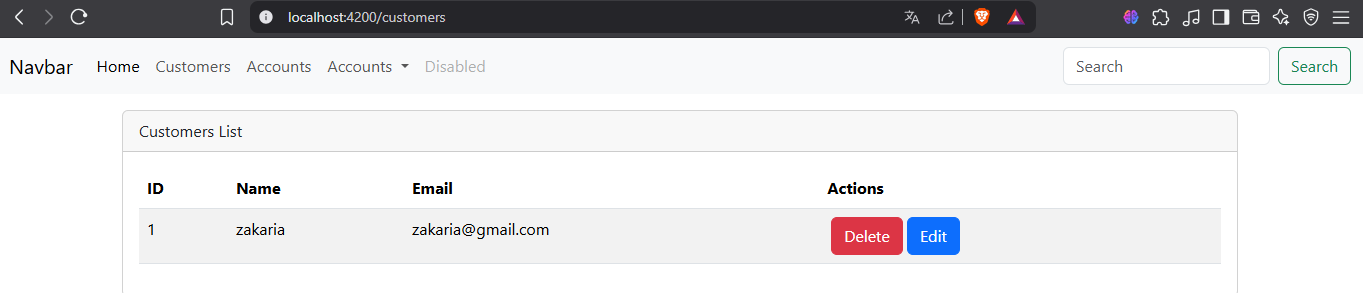
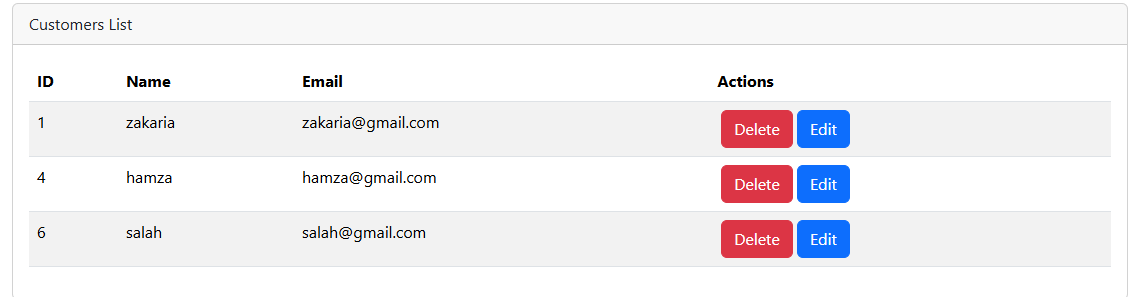
update delete customer

diff --git a/src/app/customers/customers.component.ts b/src/app/customers/customers.component.ts
@@ -1,8 +1,7 @@
-import { Component, OnInit,inject } from '@angular/core';
+import { Component, OnInit, inject } from '@angular/core';
 import { CommonModule } from '@angular/common';
 import { CustumerService, Customer } from '../services/custumer.service';
 import { RouterModule } from '@angular/router';
-
 
 @Component({
   selector: 'app-customers',
@@ -14,7 +13,8 @@ import { RouterModule } from '@angular/router';
 export class CustomersComponent implements OnInit {
   customers: Customer[] = [];
   errorMessage: string = '';
-  service=inject(CustumerService);
+  successMessage: string = '';  // Add this line
+  service = inject(CustumerService);
 
   constructor(private customerService: CustumerService) {}
 
@@ -36,12 +36,17 @@ export class CustomersComponent implements OnInit {
 
   deleteCustomer(id: number) {
     if (confirm('Are you sure you want to delete this customer?')) {
-      this.customerService.deleteCustomer(id).subscribe({
+      this.service.deleteCustomer(id).subscribe({
         next: () => {
-          this.loadCustomers();
+          this.customers = this.customers.filter(c => c.id !== id);
+          this.errorMessage = '';
+          this.successMessage = 'Customer deleted successfully';
+          setTimeout(() => this.successMessage = '', 3000); 
         },
         error: (err) => {
           this.errorMessage = 'Error deleting customer: ' + err.message;
+          this.successMessage = '';
+          console.error('Delete error:', err);
         }
       });
     }

diff --git a/src/app/customers/customers.component.html b/src/app/customers/customers.component.html
@@ -5,6 +5,9 @@
       <div *ngIf="errorMessage" class="alert alert-danger">
         {{errorMessage}}
       </div>
+      <div *ngIf="successMessage" class="alert alert-success">
+        {{successMessage}}
+      </div>
       
       <table class="table table-striped" *ngIf="customers.length > 0">
         <thead>

diff --git a/README.md b/README.md
@@ -1,18 +1,26 @@
 # Frontend
 This is the frontend for a Digital Banking application. It interacts with a backend built using Spring Boot.
 
-# App components
+# Application Components
 
 ## Navbar
 ![alt text](img/image-1.png)
 
-## Costumer component
+## Customer Component
 ![alt text](img/image.png)
 
 # Services
 
-## Customer service
+## Customer Service
 ![alt text](img/image-2.png)
 
-# Test "/customer" endpoint
+# Testing the "/customer" Endpoint
 ![alt text](img/image-3.png)
+
+# Deleting a Customer
+
+## Confirmation Dialog
+![alt text](img/confirm_delete.png)
+
+## Success Popup Message
+![alt text](img/succes_delete.png)
